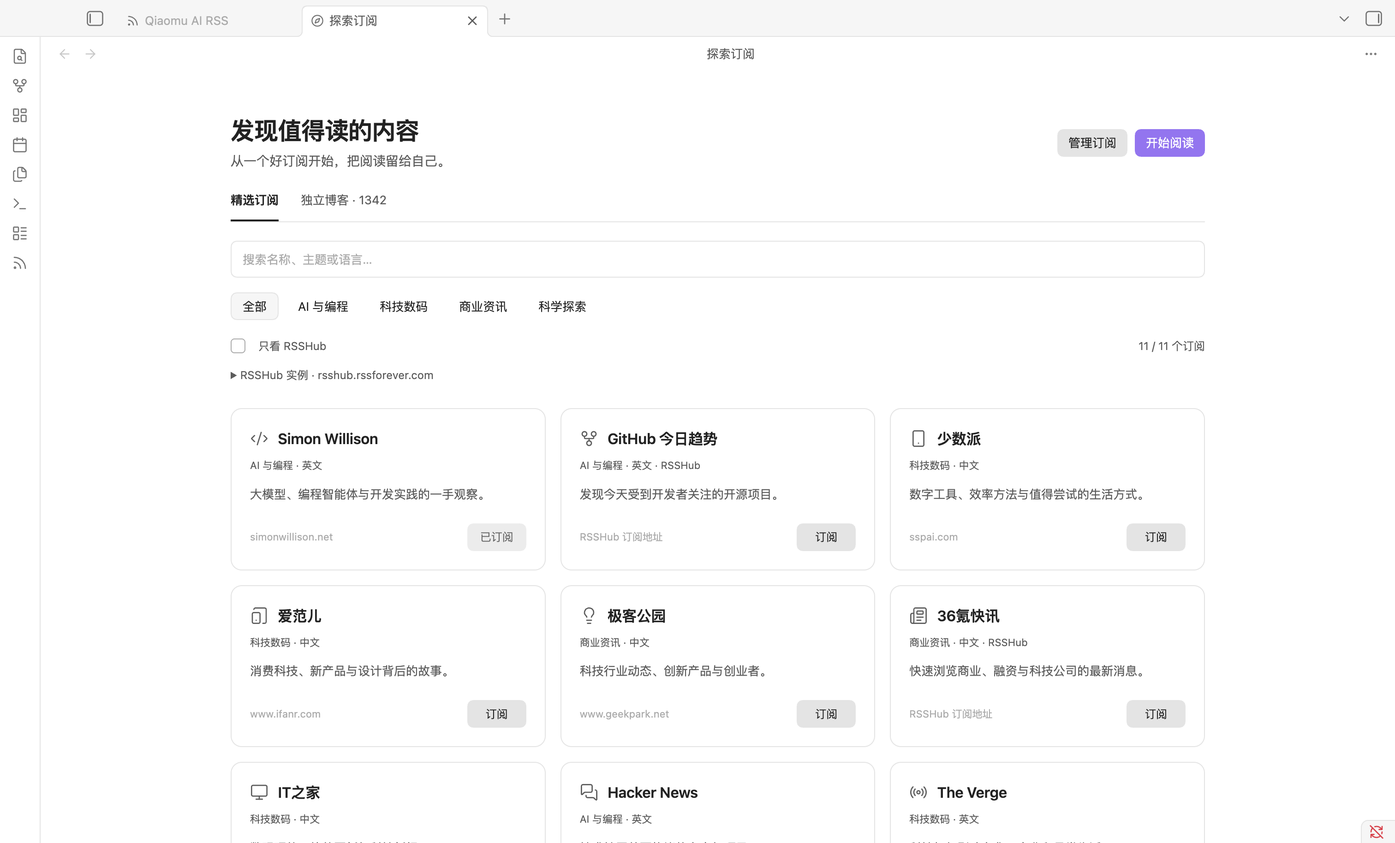
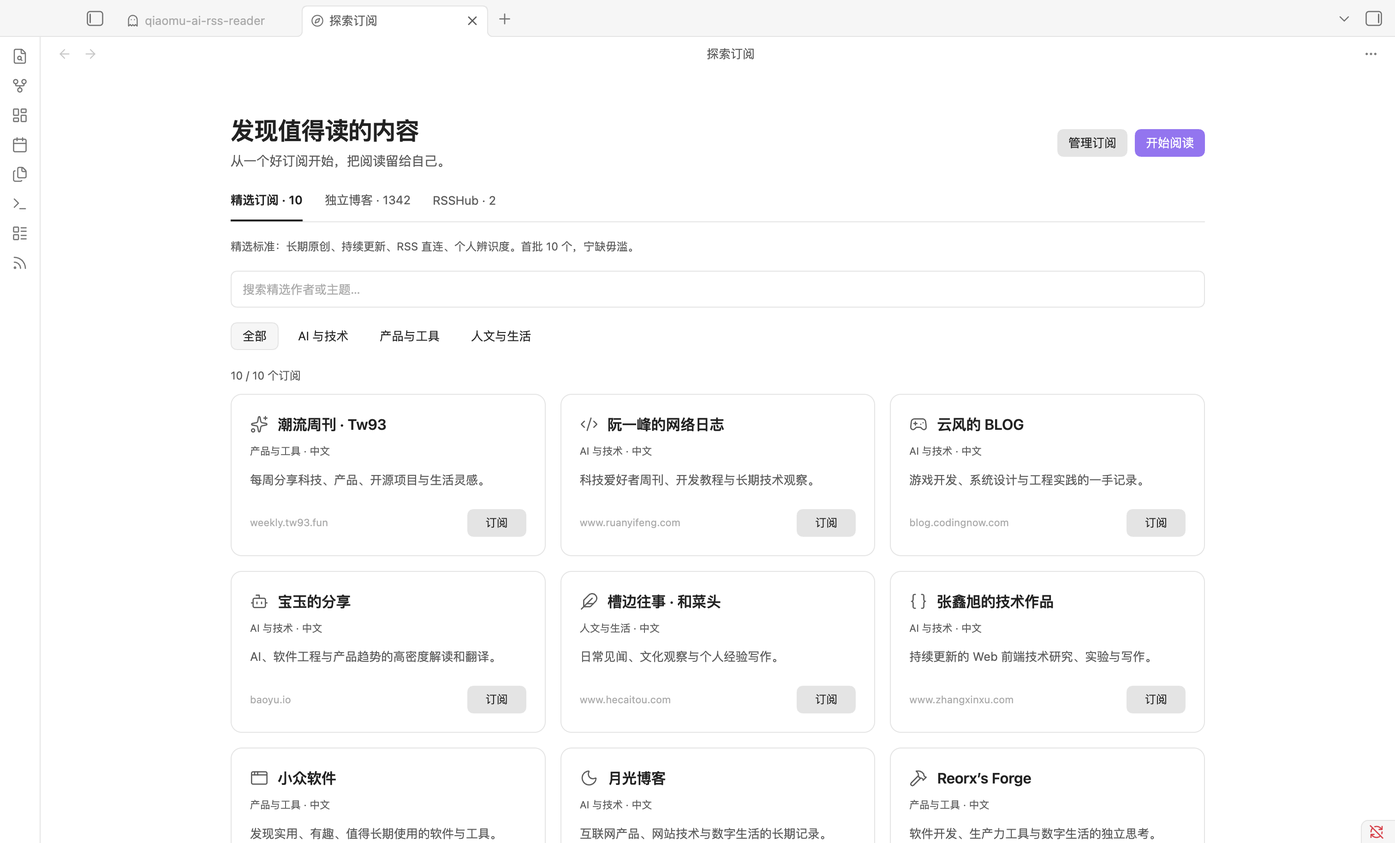
Curate ten featured RSS feeds (#6)

diff --git a/src/discovery.ts b/src/discovery.ts
@@ -5,7 +5,8 @@ export const blogCatalogRevision = blogCatalog.revision;
 
 export const DEFAULT_RSSHUB = 'https://rsshub.rssforever.com';
 const BUILT_IN_FEED_URLS = new Set(['https://blog.qiaomu.ai/feed.xml']);
-export const categories = ['全部', 'AI 与编程', '科技数码', '商业资讯', '科学探索'] as const;
+export const categories = ['全部', 'AI 与技术', '产品与工具', '人文与生活'] as const;
+export type DiscoveryCollection = 'featured' | 'blogs' | 'rsshub';
 export interface DiscoveryFeed {
   id: string;
   name: string;
@@ -22,17 +23,20 @@ export interface DiscoveryFeed {
 // Curated metadata only. Opening/searching the catalog never requests these feeds.
 // Source provenance and live verification: docs/DISCOVERY.md.
 export const discoveryFeeds: DiscoveryFeed[] = [
-  { id: 'simon', name: 'Simon Willison', description: '大模型、编程智能体与开发实践的一手观察。', category: 'AI 与编程', language: '英文', icon: 'code-xml', url: 'https://simonwillison.net/atom/everything/' },
-  { id: 'github', name: 'GitHub 今日趋势', description: '发现今天受到开发者关注的开源项目。', category: 'AI 与编程', language: '英文', icon: 'git-fork', route: '/github/trending/daily/any' },
-  { id: 'sspai', name: '少数派', description: '数字工具、效率方法与值得尝试的生活方式。', category: '科技数码', language: '中文', icon: 'smartphone', url: 'https://sspai.com/feed' },
-  { id: 'ifanr', name: '爱范儿', description: '消费科技、新产品与设计背后的故事。', category: '科技数码', language: '中文', icon: 'tablet-smartphone', url: 'https://www.ifanr.com/feed' },
-  { id: 'geekpark', name: '极客公园', description: '科技行业动态、创新产品与创业者。', category: '商业资讯', language: '中文', icon: 'lightbulb', url: 'https://www.geekpark.net/rss' },
-  { id: '36kr', name: '36氪快讯', description: '快速浏览商业、融资与科技公司的最新消息。', category: '商业资讯', language: '中文', icon: 'newspaper', route: '/36kr/newsflashes' },
-  { id: 'ithome', name: 'IT之家', description: '数码硬件、软件更新与科技新闻。', category: '科技数码', language: '中文', icon: 'monitor', url: 'https://www.ithome.com/rss/' },
-  { id: 'hackernews', name: 'Hacker News', description: '技术社区首页热议的文章与项目。', category: 'AI 与编程', language: '英文', icon: 'messages-square', url: 'https://hnrss.org/frontpage' },
-  { id: 'verge', name: 'The Verge', description: '科技如何影响文化、商业和日常生活。', category: '科技数码', language: '英文', icon: 'radio', url: 'https://www.theverge.com/rss/index.xml' },
-  { id: 'quanta', name: 'Quanta Magazine', description: '数学、物理与生命科学的新发现，深入浅出。', category: '科学探索', language: '英文', icon: 'atom', url: 'https://www.quantamagazine.org/feed/' },
-  { id: 'nasa', name: 'NASA', description: '太空任务、天文观测与航天研究进展。', category: '科学探索', language: '英文', icon: 'orbit', url: 'https://www.nasa.gov/feed/' },
+  { id: 'trend-weekly', name: '潮流周刊 · Tw93', description: '每周分享科技、产品、开源项目与生活灵感。', category: '产品与工具', language: '中文', icon: 'sparkles', url: 'https://weekly.tw93.fun/rss.xml', site: 'https://weekly.tw93.fun/' },
+  { id: 'ruanyifeng', name: '阮一峰的网络日志', description: '科技爱好者周刊、开发教程与长期技术观察。', category: 'AI 与技术', language: '中文', icon: 'code-xml', url: 'https://www.ruanyifeng.com/blog/atom.xml', site: 'https://www.ruanyifeng.com/blog/' },
+  { id: 'codingnow', name: '云风的 BLOG', description: '游戏开发、系统设计与工程实践的一手记录。', category: 'AI 与技术', language: '中文', icon: 'gamepad-2', url: 'https://blog.codingnow.com/atom.xml', site: 'https://blog.codingnow.com/' },
+  { id: 'baoyu', name: '宝玉的分享', description: 'AI、软件工程与产品趋势的高密度解读和翻译。', category: 'AI 与技术', language: '中文', icon: 'bot', url: 'https://baoyu.io/feed.xml', site: 'https://baoyu.io/' },
+  { id: 'hecaitou', name: '槽边往事 · 和菜头', description: '日常见闻、文化观察与个人经验写作。', category: '人文与生活', language: '中文', icon: 'feather', url: 'https://www.hecaitou.com/feeds/posts/default?alt=rss', site: 'https://www.hecaitou.com/' },
+  { id: 'zhangxinxu', name: '张鑫旭的技术作品', description: '持续更新的 Web 前端技术研究、实验与写作。', category: 'AI 与技术', language: '中文', icon: 'braces', url: 'https://www.zhangxinxu.com/wordpress/feed/', site: 'https://www.zhangxinxu.com/' },
+  { id: 'appinn', name: '小众软件', description: '发现实用、有趣、值得长期使用的软件与工具。', category: '产品与工具', language: '中文', icon: 'app-window', url: 'https://www.appinn.com/feed/', site: 'https://www.appinn.com/' },
+  { id: 'williamlong', name: '月光博客', description: '互联网产品、网站技术与数字生活的长期记录。', category: 'AI 与技术', language: '中文', icon: 'moon', url: 'https://www.williamlong.info/rss.xml', site: 'https://www.williamlong.info/' },
+  { id: 'reorx', name: 'Reorx’s Forge', description: '软件开发、生产力工具与数字生活的独立思考。', category: '产品与工具', language: '中文', icon: 'hammer', url: 'https://reorx.com/feed.xml', site: 'https://reorx.com/' },
+  { id: 'pseudoyu', name: 'pseudoyu', description: '技术实践、个人成长与生活周报，完整记录思考过程。', category: '人文与生活', language: '中文', icon: 'notebook-pen', url: 'https://www.pseudoyu.com/zh/index.xml', site: 'https://www.pseudoyu.com/zh/' },
+];
+export const rsshubFeeds: DiscoveryFeed[] = [
+  { id: 'github', name: 'GitHub 今日趋势', description: '发现今天受到开发者关注的开源项目。', category: 'AI 与技术', language: '英文', icon: 'git-fork', route: '/github/trending/daily/any' },
+  { id: '36kr', name: '36氪快讯', description: '快速浏览商业、融资与科技公司的最新消息。', category: '产品与工具', language: '中文', icon: 'newspaper', route: '/36kr/newsflashes' },
 ];
 export const independentBlogs: DiscoveryFeed[] = blogCatalog.items
   .filter(blog => !BUILT_IN_FEED_URLS.has(blog.url))
@@ -44,9 +48,9 @@ export function discoveryUrl(feed: DiscoveryFeed, instance: string): string {
   if (!feed.route?.startsWith('/') || feed.route.startsWith('//')) throw new Error('订阅路由无效。');
   return serviceUrl(instance) + feed.route;
 }
-export function filterDiscovery(query: string, category: string, rsshubOnly: boolean, collection: 'featured' | 'blogs' = 'featured', tag = ''): DiscoveryFeed[] {
+export function filterDiscovery(query: string, category: string, collection: DiscoveryCollection = 'featured', tag = ''): DiscoveryFeed[] {
   const terms = query.trim().toLocaleLowerCase().split(/\s+/).filter(Boolean);
-  return (collection === 'blogs' ? independentBlogs : discoveryFeeds).filter(feed => (collection === 'blogs' ? !tag || feed.tags?.includes(tag) : category === '全部' || feed.category === category)
-    && (collection === 'blogs' || !rsshubOnly || !!feed.route)
+  const source = collection === 'blogs' ? independentBlogs : collection === 'rsshub' ? rsshubFeeds : discoveryFeeds;
+  return source.filter(feed => (collection === 'blogs' ? !tag || feed.tags?.includes(tag) : category === '全部' || feed.category === category)
     && terms.every(term => `${feed.name} ${feed.description} ${feed.category} ${feed.language} ${feed.route ? 'RSSHub' : 'RSS Atom'} ${feed.site ?? ''} ${feed.url ?? feed.route}`.toLocaleLowerCase().includes(term)));
 }

diff --git a/src/discovery-view.ts b/src/discovery-view.ts
@@ -1,6 +1,6 @@
 import { ItemView, Notice, setIcon, type WorkspaceLeaf } from 'obsidian';
 import type QiaomuRssPlugin from './main';
-import { blogCatalogSource, blogTags, categories, DEFAULT_RSSHUB, discoveryFeeds, discoveryUrl, filterDiscovery, independentBlogs } from './discovery';
+import { blogCatalogSource, blogTags, categories, DEFAULT_RSSHUB, discoveryFeeds, discoveryUrl, filterDiscovery, independentBlogs, rsshubFeeds, type DiscoveryCollection } from './discovery';
 import { serviceUrl } from './model';
 
 export const DISCOVERY_VIEW_TYPE = 'qiaomu-ai-rss-discovery';
@@ -9,8 +9,7 @@ export class DiscoveryView extends ItemView {
   private count!: HTMLElement;
   private query = '';
   private category = '全部';
-  private rsshubOnly = false;
-  private collection: 'featured' | 'blogs' = 'featured';
+  private collection: DiscoveryCollection = 'featured';
   private tag = '';
   private limit = 60;
   private more!: HTMLButtonElement;
@@ -32,8 +31,10 @@ export class DiscoveryView extends ItemView {
     actions.createEl('button', { text: '管理订阅' }).onclick = () => this.plugin.manageSubscriptions();
     actions.createEl('button', { text: '开始阅读', cls: 'mod-cta' }).onclick = () => { void this.plugin.readSubscriptions(); };
     const collections = page.createDiv({ cls: 'qrs-discovery-collections', attr: { 'aria-label': '目录选择' } });
-    const featured = collections.createEl('button', { text: '精选订阅', attr: { 'aria-pressed': String(this.collection === 'featured') } });
+    const featured = collections.createEl('button', { text: `精选订阅 · ${discoveryFeeds.length}`, attr: { 'aria-pressed': String(this.collection === 'featured') } });
     const blogs = collections.createEl('button', { text: `独立博客 · ${independentBlogs.length}`, attr: { 'aria-pressed': String(this.collection === 'blogs') } });
+    const rsshub = collections.createEl('button', { text: `RSSHub · ${rsshubFeeds.length}`, attr: { 'aria-pressed': String(this.collection === 'rsshub') } });
+    const standard = page.createEl('p', { cls: 'qrs-discovery-standard', text: '精选标准：长期原创、持续更新、RSS 直连、个人辨识度。首批 10 个，宁缺毋滥。' });
     const attribution = page.createDiv('qrs-discovery-attribution');
     attribution.createSpan({ text: '目录来自 ' });
     attribution.createEl('a', { text: '中文独立博客列表', href: blogCatalogSource, attr: { target: '_blank', rel: 'noopener noreferrer' } });
@@ -54,10 +55,6 @@ export class DiscoveryView extends ItemView {
     for (const tag of blogTags) tags.createEl('option', { value: tag, text: tag });
     tags.value = this.tag; tags.onchange = () => { this.tag = tags.value; this.limit = 60; this.refresh(); };
     const provider = page.createDiv('qrs-discovery-provider');
-    const label = provider.createEl('label', { cls: 'qrs-discovery-toggle' });
-    const toggle = label.createEl('input', { type: 'checkbox' }); toggle.checked = this.rsshubOnly;
-    label.createSpan({ text: '只看 RSSHub' });
-    toggle.onchange = () => { this.rsshubOnly = toggle.checked; this.limit = 60; this.refresh(); };
     this.count = provider.createSpan({ cls: 'qrs-discovery-count', attr: { role: 'status' } });
     const details = page.createEl('details', { cls: 'qrs-discovery-instance' });
     const summary = details.createEl('summary', { text: `RSSHub 实例 · ${new URL(this.plugin.state.settings.rsshubUrl).hostname}` });
@@ -82,15 +79,15 @@ export class DiscoveryView extends ItemView {
     this.cards = page.createDiv('qrs-discovery-grid');
     this.more = page.createEl('button', { text: '显示更多博客', cls: 'qrs-discovery-more' });
     this.more.onclick = () => { this.limit += 60; this.refresh(); };
-    const switchCollection = (collection: 'featured' | 'blogs') => {
+    const switchCollection = (collection: DiscoveryCollection) => {
       this.collection = collection; this.limit = 60;
-      featured.setAttribute('aria-pressed', String(collection === 'featured')); blogs.setAttribute('aria-pressed', String(collection === 'blogs'));
-      for (const el of [filters, label, details]) el.toggleClass('qrs-hidden', collection === 'blogs');
+      featured.setAttribute('aria-pressed', String(collection === 'featured')); blogs.setAttribute('aria-pressed', String(collection === 'blogs')); rsshub.setAttribute('aria-pressed', String(collection === 'rsshub'));
+      filters.toggleClass('qrs-hidden', collection !== 'featured'); details.toggleClass('qrs-hidden', collection !== 'rsshub'); standard.toggleClass('qrs-hidden', collection !== 'featured');
       for (const el of [tags, attribution]) el.toggleClass('qrs-hidden', collection !== 'blogs');
-      search.placeholder = collection === 'blogs' ? '搜索博客、作者、网址或主题…' : '搜索名称、主题或语言…';
+      search.placeholder = collection === 'blogs' ? '搜索博客、作者、网址或主题…' : collection === 'rsshub' ? '搜索 RSSHub 订阅…' : '搜索精选作者或主题…';
       this.refresh();
     };
-    featured.onclick = () => switchCollection('featured'); blogs.onclick = () => switchCollection('blogs'); switchCollection(this.collection);
+    featured.onclick = () => switchCollection('featured'); blogs.onclick = () => switchCollection('blogs'); rsshub.onclick = () => switchCollection('rsshub'); switchCollection(this.collection);
     page.createEl('p', { cls: 'qrs-discovery-footnote', text: '目录保存在本地，点击订阅时才读取内容，并按主题分组。公共源可能限流或失效；失败时可以重试。' });
     this.registerEvent(this.app.workspace.on('active-leaf-change', () => this.refresh()));
     return Promise.resolve();
@@ -102,8 +99,9 @@ export class DiscoveryView extends ItemView {
     const active = this.contentEl.ownerDocument.activeElement;
     const focusedId = active instanceof HTMLElement && this.cards.contains(active) ? active.closest<HTMLElement>('[data-feed]')?.dataset.feed : undefined;
     this.cards.empty();
-    const feeds = filterDiscovery(this.query, this.category, this.rsshubOnly, this.collection, this.tag);
-    this.count.setText(`${feeds.length} / ${this.collection === 'blogs' ? independentBlogs.length : discoveryFeeds.length} 个订阅`);
+    const feeds = filterDiscovery(this.query, this.collection === 'featured' ? this.category : '全部', this.collection, this.tag);
+    const total = this.collection === 'blogs' ? independentBlogs.length : this.collection === 'rsshub' ? rsshubFeeds.length : discoveryFeeds.length;
+    this.count.setText(`${feeds.length} / ${total} 个订阅`);
     this.more.toggleClass('qrs-hidden', feeds.length <= this.limit);
     this.more.setText(`显示更多博客（还剩 ${Math.max(0, feeds.length - this.limit)} 个）`);
     if (!feeds.length) this.cards.createDiv({ cls: 'qrs-empty', text: '没有找到匹配内容，试试其他关键词或分类。' });

diff --git a/tests/discovery.test.ts b/tests/discovery.test.ts
@@ -1,10 +1,10 @@
 import { describe, expect, it } from 'vitest';
-import { DEFAULT_RSSHUB, discoveryFeeds, discoveryUrl, filterDiscovery, independentBlogs } from '../src/discovery';
+import { DEFAULT_RSSHUB, discoveryFeeds, discoveryUrl, filterDiscovery, independentBlogs, rsshubFeeds } from '../src/discovery';
 import { initialState, safeUrl, serviceUrl, withServiceOrigin } from '../src/model';
 
 describe('local discovery catalog', () => {
   it('bundles unique safe feed URLs and blog home pages', () => {
-    const entries = [...discoveryFeeds, ...independentBlogs];
+    const entries = [...discoveryFeeds, ...rsshubFeeds, ...independentBlogs];
     expect(new Set(entries.map(feed => feed.id)).size).toBe(entries.length);
     for (const feed of entries) {
       expect(safeUrl(discoveryUrl(feed, DEFAULT_RSSHUB))).not.toBeNull();
@@ -13,22 +13,24 @@ describe('local discovery catalog', () => {
     expect(new Set(independentBlogs.map(feed => feed.url)).size).toBe(independentBlogs.length);
     expect(entries.some(feed => feed.url === 'https://blog.qiaomu.ai/feed.xml')).toBe(false);
   });
-  it('combines local text, category and RSSHub filters', () => {
-    expect(filterDiscovery('github 英文', 'AI 与编程', true).map(feed => feed.id)).toEqual(['github']);
-    expect(filterDiscovery('nasa', '科技数码', false)).toEqual([]);
-    expect(filterDiscovery('', '全部', true).every(feed => !!feed.route)).toBe(true);
-    expect(filterDiscovery('no-matches-here', '全部', false)).toEqual([]);
+  it('keeps ten direct featured feeds separate from RSSHub routes', () => {
+    expect(discoveryFeeds).toHaveLength(10);
+    expect(discoveryFeeds.every(feed => !!feed.url && !feed.route)).toBe(true);
+    expect(filterDiscovery('阮一峰 技术', 'AI 与技术').map(feed => feed.id)).toEqual(['ruanyifeng']);
+    expect(filterDiscovery('github 英文', 'AI 与技术', 'rsshub').map(feed => feed.id)).toEqual(['github']);
+    expect(filterDiscovery('', '全部', 'rsshub')).toEqual(rsshubFeeds);
+    expect(filterDiscovery('no-matches-here', '全部')).toEqual([]);
   });
   it('separates large blog catalog and ignores hidden curated filters', () => {
     expect(independentBlogs.length).toBeGreaterThan(1000);
-    expect(filterDiscovery('', '科学探索', true, 'blogs')).toHaveLength(independentBlogs.length);
-    const blogs = filterDiscovery('diygod', '全部', false, 'blogs', '开源');
+    expect(filterDiscovery('', '人文与生活', 'blogs')).toHaveLength(independentBlogs.length);
+    const blogs = filterDiscovery('diygod', '全部', 'blogs', '开源');
     expect(blogs.length).toBeGreaterThan(0);
     expect(blogs.every(feed => feed.tags?.includes('开源'))).toBe(true);
-    expect(filterDiscovery('', '全部', false)).toHaveLength(discoveryFeeds.length);
+    expect(filterDiscovery('', '全部')).toHaveLength(discoveryFeeds.length);
   });
   it('changes only RSSHub catalog URLs, leaves direct feed URLs untouched', () => {
-    expect(discoveryUrl(discoveryFeeds.find(feed => feed.id === 'github')!, 'https://hub.example/')).toBe('https://hub.example/github/trending/daily/any');
+    expect(discoveryUrl(rsshubFeeds.find(feed => feed.id === 'github')!, 'https://hub.example/')).toBe('https://hub.example/github/trending/daily/any');
     expect(discoveryUrl(discoveryFeeds[0], 'https://hub.example')).toBe(discoveryFeeds[0].url);
     for (const url of ['http://example.com', 'https://user:secret@example.com', 'https://example.com/path', 'https://example.com?token=x', 'javascript:bad']) expect(() => serviceUrl(url)).toThrow();
   });

diff --git a/styles.css b/styles.css
@@ -124,6 +124,7 @@
 .qrs-discovery-collections { display:flex; gap:24px; border-bottom:1px solid var(--background-modifier-border); margin-bottom:20px; }
 .qrs-discovery-collections button { border-radius:0; border:0; border-bottom:2px solid transparent; box-shadow:none; background:transparent; padding:0 0 12px; height:auto; color:var(--text-muted); }
 .qrs-discovery-collections button[aria-pressed=true] { border-bottom-color:var(--text-normal); color:var(--text-normal); font-weight:600; }
+.qrs-discovery-standard { margin:-4px 0 16px; color:var(--text-muted); font-size:12px; line-height:1.7; }
 .qrs-discovery-attribution { color:var(--text-muted); font-size:12px; line-height:1.8; margin-bottom:16px; }
 .qrs-discovery-tags { margin-top:16px; max-width:100%; }
 .qrs-discovery-more { display:block; margin:24px auto; }
@@ -133,7 +134,6 @@
 .qrs-discovery-filters button { box-shadow:none; background:transparent; font-size:13px; border:1px solid transparent; }
 .qrs-discovery-filters button[aria-pressed=true] { background:var(--background-secondary); border-color:var(--background-modifier-border); color:var(--text-normal); }
 .qrs-discovery-provider { display:flex; align-items:center; justify-content:space-between; gap:8px; margin:20px 0 12px; font-size:12px; color:var(--text-muted); }
-.qrs-discovery-toggle { display:flex; align-items:center; gap:8px; cursor:pointer; }
 .qrs-discovery-instance { font-size:12px; color:var(--text-muted); margin-bottom:24px; }
 .qrs-discovery-instance summary { cursor:pointer; padding:4px 0; }
 .qrs-discovery-instance p { line-height:1.7; overflow-wrap:anywhere; }

diff --git a/docs/DISCOVERY.md b/docs/DISCOVERY.md
@@ -1,6 +1,8 @@
-# Discovery catalog — 0.4.0
+# Discovery catalog — 0.5.0
 
-The Explore subscriptions view bundles 11 featured feeds and 1,342 Chinese independent blogs. Catalog search, category/theme filtering, and pagination are local. Selecting a source fetches and validates it through the existing subscription service before storing it, then stages that source as the reader's active channel. Blogs are rendered in batches of 60; discovery never subscribes to the entire directory automatically. Existing limits of 100 personal subscriptions and 50 cached articles per feed apply. Qiaomu Blog is already a built-in service channel and is intentionally not offered as a duplicate personal subscription.
+The Explore subscriptions view separates three different jobs: 10 editorially selected direct feeds, 1,342 searchable Chinese independent blogs, and 2 RSSHub routes. The featured list only includes identifiable authors or long-running independent publications with original work, recent activity, direct RSS/Atom endpoints, and a distinct editorial voice. It is intentionally short. Qiaomu Blog is already a built-in service channel and is not offered as a duplicate personal subscription.
+
+Catalog search, category/theme filtering, and pagination are local. Selecting a source fetches and validates it through the existing subscription service before storing it, then stages that source as the reader's active channel. Blogs are rendered in batches of 60; discovery never subscribes to the entire directory automatically. Existing limits of 100 personal subscriptions and 50 cached articles per feed apply.
 
 ## Chinese independent blogs
 
@@ -21,21 +23,29 @@ This script is a development tool; the plugin does not fetch remote catalog code
 
 ## Featured feeds and live probes
 
-All 11 featured endpoints returned parseable RSS/Atom with articles on 2026-09-07. This is a point-in-time check, not a future availability promise.
+All 10 direct featured endpoints returned parseable RSS/Atom with articles on 2026-09-07. This is a point-in-time check, not a future availability promise.
 
 | Source | Feed | Observed items |
 | --- | --- | ---: |
-| Simon Willison | https://simonwillison.net/atom/everything/ | 30 |
-| 少数派 | https://sspai.com/feed | 10 |
-| 爱范儿 | https://www.ifanr.com/feed | 20 |
-| 极客公园 | https://www.geekpark.net/rss | 30 |
-| IT之家 | https://www.ithome.com/rss/ | 60 |
-| Hacker News (hnrss) | https://hnrss.org/frontpage | 20 |
-| The Verge | https://www.theverge.com/rss/index.xml | 10 |
-| Quanta Magazine | https://www.quantamagazine.org/feed/ | 5 |
-| NASA | https://www.nasa.gov/feed/ | 10 |
-| 36氪快讯 (RSSHub) | https://rsshub.rssforever.com/36kr/newsflashes | 20 |
-| GitHub trending (RSSHub) | https://rsshub.rssforever.com/github/trending/daily/any | 18 |
+| 潮流周刊 · Tw93 | https://weekly.tw93.fun/rss.xml | 12 |
+| 阮一峰的网络日志 | https://www.ruanyifeng.com/blog/atom.xml | 3 |
+| 云风的 BLOG | https://blog.codingnow.com/atom.xml | 15 |
+| 宝玉的分享 | https://baoyu.io/feed.xml | 50 |
+| 槽边往事 · 和菜头 | https://www.hecaitou.com/feeds/posts/default?alt=rss | 25 |
+| 张鑫旭的技术作品 | https://www.zhangxinxu.com/wordpress/feed/ | 5 |
+| 小众软件 | https://www.appinn.com/feed/ | 10 |
+| 月光博客 | https://www.williamlong.info/rss.xml | 10 |
+| Reorx’s Forge | https://reorx.com/feed.xml | 50 |
+| pseudoyu | https://www.pseudoyu.com/zh/index.xml | 50 |
+
+The user supplied the desired editorial direction. Their duplicated `hecaitou.com` link was assigned only to 和菜头; 阮一峰 uses the direct Atom endpoint documented on his own site. RSSHub-derived items are not counted as featured feeds.
+
+## RSSHub routes
+
+| Source | Route |
+| --- | --- |
+| 36氪快讯 | `/36kr/newsflashes` |
+| GitHub trending | `/github/trending/daily/any` |
 
 RSSHub route definitions were checked against the upstream implementation: [36kr/index.ts](https://github.com/DIYgod/RSSHub/blob/master/lib/routes/36kr/index.ts), [github/trending.tsx](https://github.com/DIYgod/RSSHub/blob/master/lib/routes/github/trending.tsx). The latter needs GitHub credentials configured by the RSSHub instance operator, not in the Obsidian plugin.
 

diff --git a/docs/VALIDATION.md b/docs/VALIDATION.md
@@ -1,4 +1,4 @@
-# Validation — 0.4.0
+# Validation — 0.5.0
 
 Checked on 2026-09-07. This is an original plugin connected to the real public Qiaomu RSS API. The Obsidian checks use a disposable **Qiaomu RSS QA** vault, never a personal knowledge vault.
 
@@ -57,9 +57,15 @@ The subscription smoke runner adds/removes its named public test sources, create
 
 The Qiaomu RSS QA vault reproduced the reported state: CoolShell was stored under the Independent Blogs group with 15 cached articles while the reader remained on Qiaomu Picks. Version 0.4.0 removes the duplicate Qiaomu Blog discovery card because `qiaomu-blog` is already returned by the built-in service source list. A discovery subscription now becomes the reader's active channel and is stored as the last source.
 
-The real Reorx discovery card fetched 50 articles and immediately changed the existing reader to that exact feed. A separate CoolShell check displayed all 15 cached articles, opened the first article as original content, then reloaded the plugin and reopened the reader; the CoolShell channel and 15 entries were restored. The featured discovery view contained 11 cards, no `qiaomu` card, and the reader channel picker still contained the built-in Qiaomu Blog source. Obsidian reported no developer errors. The desktop and 390px layout checks passed with no horizontal overflow and complete inset focus rings.
+The real Reorx discovery card fetched 50 articles and immediately changed the existing reader to that exact feed. A separate CoolShell check displayed all 15 cached articles, opened the first article as original content, then reloaded the plugin and reopened the reader; the CoolShell channel and 15 entries were restored. In 0.5.0, the featured discovery view contains exactly 10 direct feeds, displays its selection standard, and keeps the 2 RSSHub routes in a separate tab. The reader channel picker still contains the built-in Qiaomu Blog source. Obsidian reported no developer errors. The desktop and 390px layout checks passed with no horizontal overflow and complete inset focus rings.
 
 The broader discovery smoke reached and passed the new Reorx activation assertion, then stopped when the third-party RSSHub 36kr endpoint timed out. This external endpoint result is not counted as a complete discovery-smoke pass for 0.4.0.
+
+## Curated discovery — 0.5.0
+
+All 10 featured URLs returned HTTP 200 on 2026-09-07 and were parsed with the plugin's production `parseFeed` function, yielding 3 to 50 cached entries per source. The test used the exact bundled URLs, including the redirect from `baoyu.io/feed.xml` to `s.baoyu.io/feed.xml`. No RSSHub route is present in the featured array.
+
+The built plugin was installed and reloaded in Obsidian 1.13.7. The Explore view showed three distinct tabs (10 featured, 1,342 independent blogs, 2 RSSHub routes), displayed the curation standard, and had no horizontal overflow. Subscribing to the real Tw93 feed produced 12 entries and immediately made that exact feed the reader source. Obsidian reported no developer errors. The broader discovery smoke passed the new featured/blog separation and the real 36kr route, then stopped when the third-party RSSHub GitHub-trending route timed out; that external result is not counted as a full smoke pass.
 
 ## Discovery and focus regression — 0.3.0
 
@@ -73,4 +79,4 @@ The earlier reader and subscription integration records above are retained as ve
 
 ## Official directory — 2026-09-07
 
-Version 0.3.0 completed the directory's automatic review and was published. The public listing displays an Add to Obsidian link, three uploaded desktop screenshots, and the correct repository/version. Anonymous HTTP readback confirms the listing is public. See [submission record](SUBMISSION.md) for non-blocking review recommendations.
+Version 0.4.0 completed the directory's automatic review and was published. The public listing displays an Add to Obsidian link, three uploaded desktop screenshots, and the correct repository/version. Anonymous HTTP readback confirms the listing is public. See [submission record](SUBMISSION.md) for non-blocking review recommendations.

diff --git a/README.md b/README.md
@@ -8,7 +8,7 @@ Read Qiaomu feeds and your own RSS / Atom subscriptions in a native Obsidian vie
 
 ## 功能
 
-- **探索订阅**：11 个精选源与 1,342 个中文独立博客，按名称/主题搜索、一键订阅；支持 RSSHub 与自定义实例。乔木博客由服务内置，无需重复订阅。
+- **探索订阅**：10 个严格筛选的中文作者与 1,342 个中文独立博客，按名称/主题搜索、一键订阅；RSSHub 内容放在单独入口。乔木博客由服务内置，无需重复订阅。
 - **我的订阅**：添加 RSS / Atom 地址、重命名、分组、取消订阅；OPML 导入预览、去重与导出。个人订阅直接在本机获取，无需乔木账号。
 
 - 阅读优先双栏：44px 正文工具栏、可拖动调宽的列表、一键专注阅读；窄屏使用列表与正文两级导航。
@@ -42,7 +42,7 @@ Read Qiaomu feeds and your own RSS / Atom subscriptions in a native Obsidian vie
 3. 在 Obsidian 的第三方插件设置中启用 **Qiaomu AI RSS**。
 4. 点击侧边栏 RSS 图标，或运行命令 **Qiaomu AI RSS: 打开阅读器**。
 
-2026-09-07 完成官方自动审核并发布。当前版本为 0.4.0。
+2026-09-07 完成官方自动审核并发布。当前版本为 0.5.0。
 
 ## 使用
 
@@ -52,11 +52,12 @@ Read Qiaomu feeds and your own RSS / Atom subscriptions in a native Obsidian vie
 
 点击列表顶部 **+ → 探索订阅**，或运行命令 **Qiaomu AI RSS: 探索订阅**。
 
-- **精选订阅**：少数派、爱范儿、NASA 等，以及 RSSHub 的 36氪快讯和 GitHub 今日趋势；乔木博客直接作为内置频道提供。
+- **精选订阅**：首批只保留潮流周刊、阮一峰、云风、宝玉、和菜头、张鑫旭、小众软件、月光博客、Reorx 与 pseudoyu。标准是长期原创、持续更新、RSS 直连与鲜明的个人辨识度，宁缺毋滥；乔木博客直接作为内置频道提供。
 - **独立博客**：来自 [timqian/chinese-independent-blogs](https://github.com/timqian/chinese-independent-blogs) 的 1,342 个带 RSS 地址的博客，保留名称、主页与主题标签；支持搜索、主题筛选和分批浏览。
+- **RSSHub**：36氪快讯和 GitHub 今日趋势保留在单独的 RSSHub 页签，不计入 10 个精选作者。
 - 点击“订阅”会读取并验证源，按主题加入“我的订阅”，并让阅读器记住这个新频道；切回阅读器即可看到文章。已经添加的源显示“已订阅”，点击“开始阅读”可查看全部个人订阅。
 - 目录离线内置，不会在浏览时请求所有网站。独立博客是社区目录快照，部分旧地址可能失效；添加失败时显示原因和重试入口。
-- RSSHub 默认使用第三方公共实例 `rsshub.rssforever.com`，可以展开“RSSHub 实例”改为自己的 HTTPS 实例。仅影响以后添加的源，已有订阅保持不变。
+- RSSHub 页签默认使用第三方公共实例 `rsshub.rssforever.com`，可以展开“RSSHub 实例”改为自己的 HTTPS 实例。仅影响以后添加的源，已有订阅保持不变。
 
 [目录来源、授权与可用性记录](docs/DISCOVERY.md) · [精选目录截图](docs/images/discovery-featured.png)
 

diff --git a/CHANGELOG.md b/CHANGELOG.md
@@ -1,5 +1,11 @@
 # Changelog
 
+## 0.5.0 — 2026-09-07
+
+- Replace the broad featured catalog with 10 high-signal Chinese authors and independent publications using verified direct feeds.
+- Show the curation standard in Explore and move RSSHub routes into their own tab.
+- Correct the duplicated hecaitou.com link by using 阮一峰's official Atom feed separately from 和菜头's feed.
+
 ## 0.4.0 — 2026-09-07
 
 - Open a newly added discovery subscription in the reader automatically and remember that channel across reloads.
